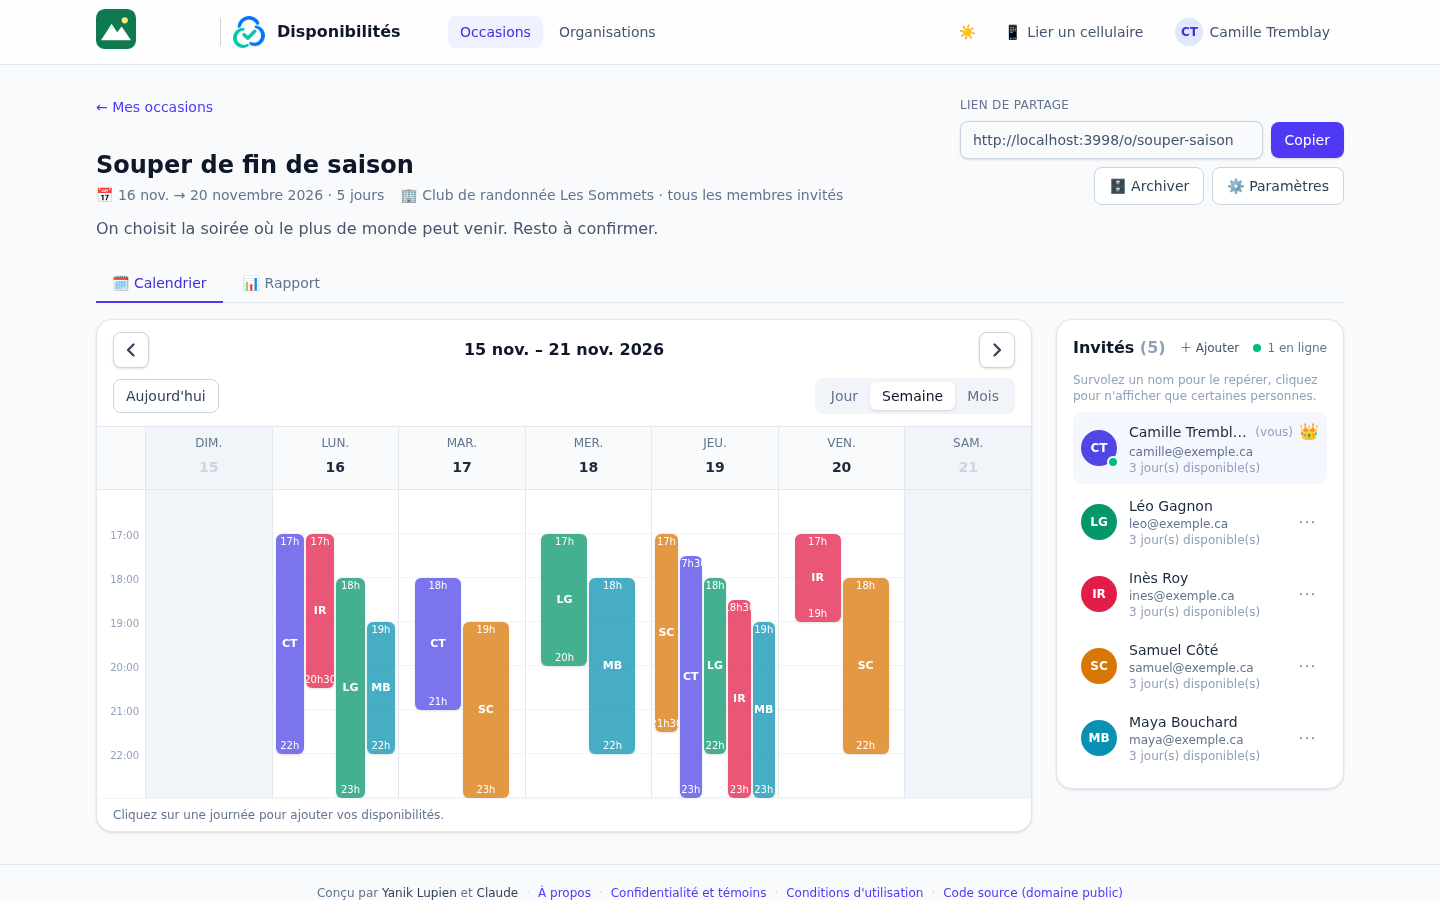
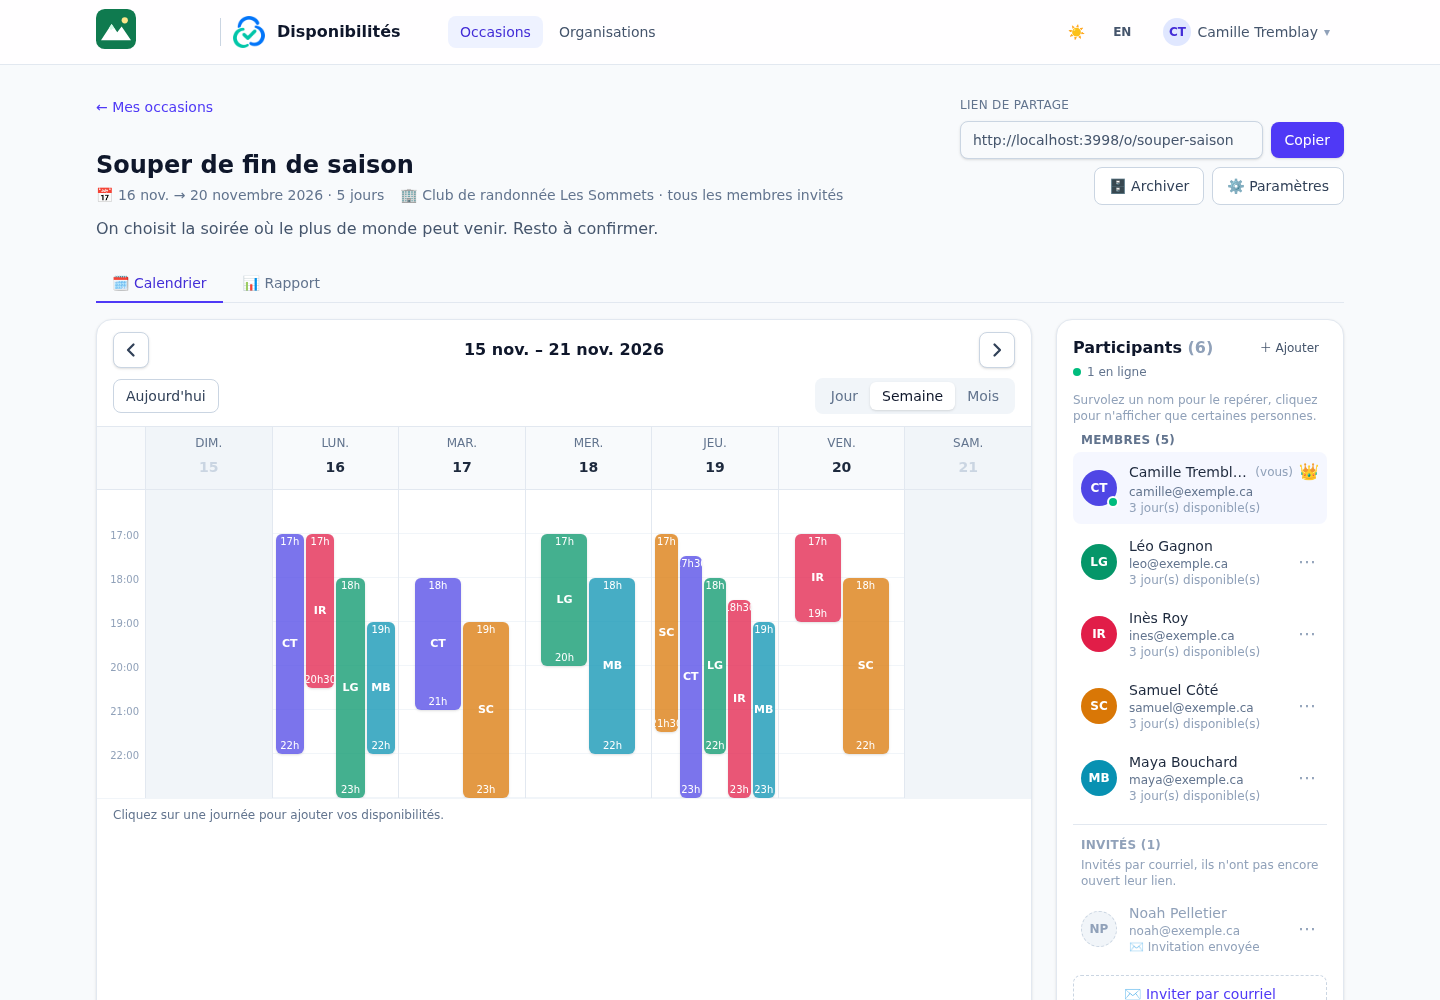
Captures récentes, page « À propos », README et documentation à jour
- Captures refaites (menu utilisateur, liste Participants avec un invité, dates
  bilingues) et nouvelle capture de la création d'un logo dans la galerie.
- Page « À propos » : cartes Invitations par courriel, Logos sur mesure,
  Français et anglais ; « Sans compte » devient « Simple et privé ».
- README : interface bilingue, invitations, page d'organisation, galerie de
  logos, changements en direct, page 404.
- docs : arborescence du projet, sécurité (invitations, logos), table logos.

diff --git a/frontend/src/pages/Landing.svelte b/frontend/src/pages/Landing.svelte
@@ -6,15 +6,16 @@
   import { asset } from '../lib/assets.js';
   import { t, th } from '../lib/i18n.svelte.js';
 
-  const FEATURE_ICONS = ['🗓', '🖱', '⚡', '📊', '🏢', '🔒'];
+  const FEATURE_ICONS = ['🗓', '🖱', '⚡', '📊', '✉', '🏢', '🎨', '🌐', '🔒'];
   const FEATURES = $derived(
     FEATURE_ICONS.map((icon, i) => ({ icon, title: t(`Landing.features.${i}.title`), text: t(`Landing.features.${i}.text`) })),
   );
 
   const SHOT_FILES = [
-    { src: asset('/captures/calendrier-semaine.png'), w: 1440, h: 900 },
+    { src: asset('/captures/calendrier-semaine.png'), w: 1440, h: 1000 },
     { src: asset('/captures/rapport-sombre.png'), w: 1440, h: 900 },
     { src: asset('/captures/mes-occasions.png'), w: 1440, h: 760 },
+    { src: asset('/captures/creer-logo.png'), w: 1440, h: 900 },
   ];
   const SHOTS = $derived(
     SHOT_FILES.map((f, i) => ({

diff --git a/README.md b/README.md
@@ -9,7 +9,7 @@ Pas d'inscription : chaque visiteur est reconnu par un cookie permanent, et peut
 autre appareil grâce à un code QR, un mot de passe facultatif ou un lien de connexion reçu par courriel. L'accès
 se fait **sur invitation** : le cookie n'est créé qu'en ouvrant le lien d'une occasion.
 
-Interface en français. Stack : **Svelte 5 + Vite + Tailwind CSS 4** (frontend), **Node.js + Express 5 +
+Interface en **français et en anglais**. Stack : **Svelte 5 + Vite + Tailwind CSS 4** (frontend), **Node.js + Express 5 +
 Socket.IO** (backend), **MySQL 8.4**, **Redis**, le tout sous **Docker Compose**. Code versé dans le
 **domaine public** ([Unlicense](LICENSE)).
 
@@ -21,11 +21,15 @@ Socket.IO** (backend), **MySQL 8.4**, **Redis**, le tout sous **Docker Compose**
 
 | Calendrier d'une occasion (vue Semaine) | Rapport : meilleurs moments (mode sombre) |
 |---|---|
-| ![Vue Semaine : barres de disponibilité de chaque invité, avec heure de début, initiales et heure de fin](frontend/public/captures/calendrier-semaine.png) | ![Rapport : carte de chaleur et meilleurs moments, en mode sombre](frontend/public/captures/rapport-sombre.png) |
+| ![Vue Semaine : barres de disponibilité de chaque invité ; à droite, les membres et une personne invitée par courriel, en gris](frontend/public/captures/calendrier-semaine.png) | ![Rapport : carte de chaleur et meilleurs moments, en mode sombre](frontend/public/captures/rapport-sombre.png) |
 
 | Mes occasions | Éditeur de plages sur cellulaire |
 |---|---|
 | ![Liste des occasions avec logos d'organisations et couronne pour celles que l'on gère](frontend/public/captures/mes-occasions.png) | <img src="frontend/public/captures/mobile-editeur.png" alt="Éditeur de plages sur cellulaire : deux lignes avant-midi / après-midi" width="300"> |
+
+| Créer un logo dans la galerie |
+|---|
+| ![Création d'un logo : texte, fond, police et symbole choisis dans la galerie](frontend/public/captures/creer-logo.png) |
 
 ---
 
@@ -80,10 +84,18 @@ Socket.IO** (backend), **MySQL 8.4**, **Redis**, le tout sous **Docker Compose**
 - Liste des invités : survoler un nom grise les plages des autres dans le calendrier ; cliquer sur des noms (icône 👁)
   n'affiche temporairement que ces personnes (« Tout afficher » pour revenir).
 - Présence en direct : qui est en ligne, qui modifie quelle journée (la plage bouge chez les autres pendant qu'on la déplace).
-- Le créateur d'une occasion (ou un admin de son organisation) peut **retirer** ou **ajouter** des invités.
+- Le créateur d'une occasion (ou un admin de son organisation) peut **retirer** ou **ajouter** des invités, et en
+  **inviter par courriel** : un compte est préparé pour qui n'en a pas, et chacun reçoit un lien personnel (30 jours)
+  qui l'amène à l'occasion. La liste « Participants » sépare les **membres** des **invités** (en gris) qui n'ont pas
+  encore ouvert leur lien ; « Renvoyer l'invitation » est dans leur menu.
 
 **Organisations**
-- Nom, logo (affiché en haut des pages de ses occasions, agrandissable d'un clic) et responsable.
+- Chaque organisation a sa page (`/organisations/<numéro>`) : nom, mode, logo et membres.
+- **Logo** affiché en haut des pages de ses occasions (agrandissable d'un clic) : un fichier téléversé
+  (*Personnalisé*) ou un logo créé dans la **Galerie** — 14 symboles à chercher par mot-clé, texte modifiable,
+  5 polices, fond *Thème* (suit le mode clair / sombre), *Clair* ou *Sombre*. On peut en créer plusieurs, les
+  rééditer, les effacer et choisir celui qui est affiché.
+- Les changements (nom, logo) s'affichent **en direct** chez tous ceux qui voient l'organisation.
 - Ouvrir le lien d'une occasion d'une organisation en rend membre automatiquement.
 - *Mode libre* : tous les membres créent des occasions. *Mode autorisé* : seuls les membres cochés.
 - Rôle **administrateur** : gère l'organisation (membres, droits, logo) et les invités de ses occasions.
@@ -103,9 +115,12 @@ Socket.IO** (backend), **MySQL 8.4**, **Redis**, le tout sous **Docker Compose**
 - L'administrateur gère toutes les organisations et occasions depuis leurs propres pages, sans y être ajouté.
 
 **Interface**
+- **Français et anglais** : bouton EN / FR dans l'en-tête (sinon la langue du navigateur) ; les messages du serveur
+  et les courriels suivent la langue de chacun.
+- Menu sous son nom : *Profil* et *Lier un cellulaire*.
 - Adaptée au cellulaire (menu compact, éditeur tactile) et à l'ordinateur.
 - **Mode sombre** : suit le thème de l'appareil par défaut ; bouton ☀ / 🌙 / 🖥 pour forcer clair ou sombre (mémorisé).
-- Quand une fenêtre est ouverte, la page derrière ne défile plus.
+- Quand une fenêtre est ouverte, la page derrière ne défile plus. Une adresse inconnue affiche une page 404.
 - Les onglets ont leur adresse (`#calendrier`, `#rapport`, `/admin/comptes`, `/admin/organisations/<numéro>`…) : un rechargement garde l'onglet, et « ← » ou Précédent ramène à la liste.
 
 ---

diff --git a/docs/architecture.md b/docs/architecture.md
@@ -28,6 +28,7 @@ Tous les services ont `restart: unless-stopped` : ils repartent seuls après un 
 ├── Dockerfile                image de production (frontend compilé + backend)
 ├── scripts/web.sh            publication Cloudflare Tunnel
 ├── scripts/dev-db.sh         base de développement (création, copie de la production)
+├── scripts/check-locales.py  vérification des traductions (mêmes clés en français et en anglais)
 ├── LICENSE                   domaine public (Unlicense)
 ├── docs/                     documentation technique (ce dossier)
 ├── logos/                    logo de l'application, original haute résolution
@@ -44,14 +45,21 @@ Tous les services ont `restart: unless-stopped` : ils repartent seuls après un 
 │       ├── organizations.js  organisations, membres, rôles, logos
 │       ├── link.js           liaison d'appareils par code QR, fusion de comptes
 │       ├── socket.js         temps réel et présence (adaptateur Redis)
-│       └── clock.js          date et heure dans le fuseau de l'application
+│       ├── clock.js          date et heure dans le fuseau de l'application
+│       ├── i18n.js           langue de la requête, traduction des erreurs et des courriels
+│       └── locales/          textes du serveur (fr.json, en.json)
 └── frontend/
-    ├── public/captures/  captures d'écran (README et page de présentation)
+    ├── public/captures/          captures d'écran (README et page de présentation)
+    ├── public/logos-generiques/  symboles de la galerie de logos (SVG)
+    ├── public/fonts/             polices des logos de la galerie (licence OFL)
     └── src/
         ├── App.svelte        en-tête, menu, routage
-        ├── pages/            Landing, Home, Occasion, Organizations, LinkClaim, Login, Admin, Privacy, Terms
-        ├── components/       calendrier (Calendar, MonthView, TimeGrid, DayOverlay), Report,
-        │                     GuestList, éditeurs d'occasion et d'organisation, LinkDevice…
-        └── lib/              API, dates, socket, routeur, session, thème, verrouillage du défilement,
+        ├── pages/            Landing, Home, Occasion, Organizations, LinkClaim, Login, Admin, Privacy, Terms, NotFound
+        ├── components/       calendrier (Calendar, MonthView, TimeGrid, DayOverlay), Report, GuestList,
+        │                     InviteByEmail, éditeurs d'occasion et d'organisation (OrganizationEditor : page
+        │                     de l'organisation), logos (LogoGallery, LogoCreator, BackgroundPicker), LinkDevice…
+        ├── locales/          textes de l'interface, un fichier par composant (fr/, en/)
+        └── lib/              API, dates, socket, routeur, session, thème, traductions (i18n), galerie de logos
+                              et leur affichage, organisations en direct (orgLive), verrouillage du défilement,
                               onglets dans l'adresse (hashTab), version des images (assets)
 ```

diff --git a/docs/securite.md b/docs/securite.md
@@ -3,11 +3,15 @@
 # Sécurité
 
 - Cookie `httpOnly`, `SameSite=Lax`, `Secure` en production.
-- Jetons de liaison stockés sous forme d'empreinte, usage unique (code QR : 10 minutes ; lien de connexion : 7 jours).
+- Jetons de liaison stockés sous forme d'empreinte, usage unique (code QR : 10 minutes ; lien de connexion : 7 jours ;
+  invitation à une occasion : 30 jours, une par invitation).
 - Mots de passe hachés avec `scrypt` (sel aléatoire) ; 10 échecs de connexion par adresse ou par IP bloquent 15 minutes.
 - Liens de connexion par courriel : même réponse que l'adresse existe ou non (on ne peut pas deviner qui est inscrit),
   3 demandes par adresse et 10 par IP toutes les 15 minutes ; l'adresse de retour n'accepte que des pages du site.
+- Invitations par courriel : réservées au créateur et aux admins de l'organisation ; la réponse ne dit pas si une
+  adresse avait déjà un compte ; au plus 50 adresses par envoi et 200 par heure et par personne.
 - Logos : type et signature vérifiés ; servis avec `nosniff` et une politique CSP `sandbox` (un SVG ne peut pas exécuter de script).
+  Logos de la galerie : symbole et police limités à des identifiants simples, 30 logos au plus par organisation.
 - Conteneurs `web`, `tunnel` et `redis` verrouillés : système de fichiers en lecture seule, aucune capacité Linux,
   `no-new-privileges`, mémoire limitée. Le port de `web` n'est publié que sur `127.0.0.1`.
 - Les fichiers sensibles (`.env`, `deploy/`) sont exclus de Git.

diff --git a/docs/fonctionnement.md b/docs/fonctionnement.md
@@ -20,6 +20,8 @@
 
 ## Règles
 - **Journées** : au moins une, aucune dans le passé à l'ajout ; stockées dans la table `occasion_days`.
+- **Logos** : table `logos` (fichier personnalisé et logos de la galerie) ; l'organisation pointe vers le logo affiché
+  (`organizations.logo_id`). Voir [Développement](developpement.md#logos-de-lorganisation--personnalisé-ou-galerie).
 - **Plages** : sur une journée choisie, dans les heures de l'occasion, sans chevauchement pour une même personne.
 - **Lecture seule** : occasion archivée, ou date de fin d'édition dépassée.
 - **Retrait** : un invité ou un membre retiré n'est pas réintégré en rouvrant un lien ; seul un responsable,
